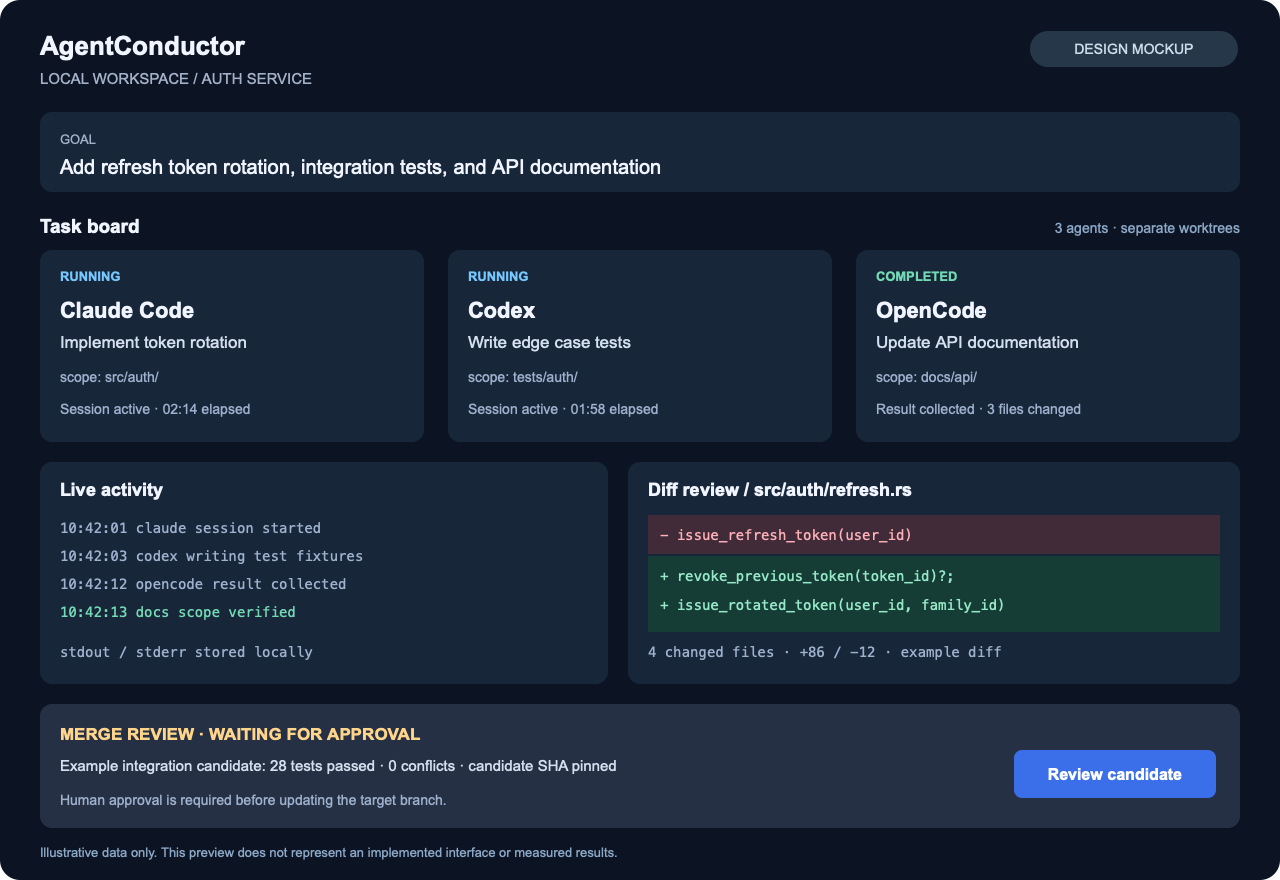
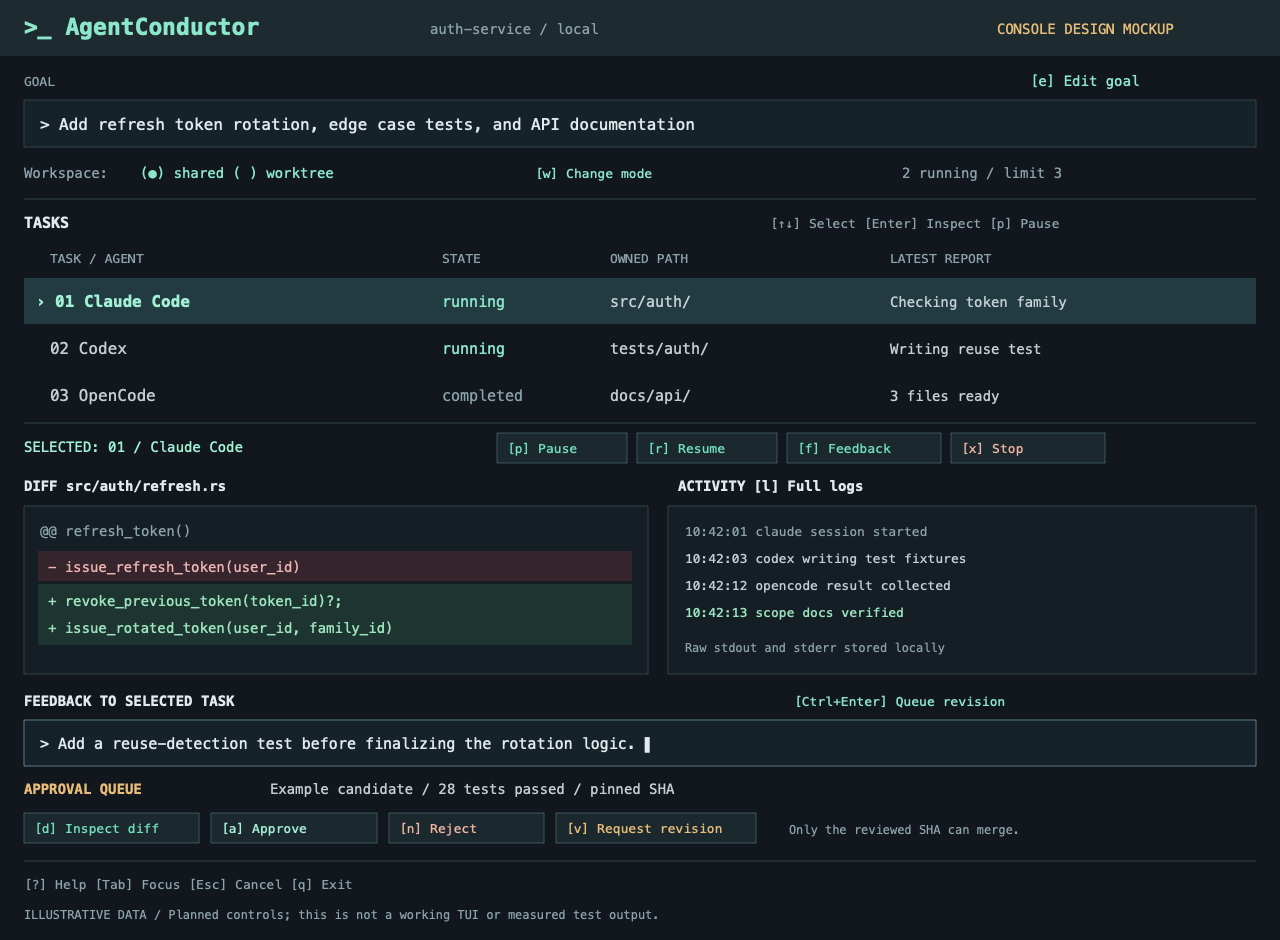
docs: redesign console preview around human intervention

diff --git a/knowledge/wiki/log.md b/knowledge/wiki/log.md
@@ -61,3 +61,27 @@ Verified 15 English Markdown files, zero broken local links, valid SVG XML, 1280
 and clean Git diff whitespace. Visually inspected all preview panels. Saved requirements and
 progress to shared agentmemory mem_mv0xsakb_73793144f244. This completes the documentation
 change, not the UI or orchestration implementation.
+
+## [2026-10-09] plan | Optional worktrees and human controls
+
+User changed worktree separation to an option and requested a less web-like interface with
+visible intervention controls. Shared is the default; worktree is explicit. Shared-mode
+policy requires disjoint scopes, a clean baseline, no worker Git mutations, quiescent tests,
+and aggregate review with unverified per-worker attribution.
+
+## [2026-10-09] task | Workspace plan schema and console concept
+
+Added workspace_mode (shared/worktree), backward-compatible shared default, and unknown-mode
+rejection. Redesigned the preview as a terminal console with task selection, goal/feedback
+entry, pause/resume/revise, workspace selection, and inspect/approve/reject controls.
+
+## [2026-10-09] verify | Workspace schema
+
+Red: two new tests failed while eight existing tests passed. Green: 14 tests passed overall;
+clippy passed. Actual workspace execution/scheduling and UI controls remain unimplemented.
+
+## [2026-10-09] complete | Workspace option and revised preview
+
+Plan schema, English documentation, and revised console illustration verified. All local
+links resolve; SVG parses; PNG is 1280×940 and all interaction controls are visible.
+Shared/worktree execution and interactive controls still require later implementation.

diff --git a/README.md b/README.md
@@ -6,7 +6,7 @@ Claude Code, Codex, OpenCode, and custom command-line agents.
 Use your existing CLI authentication. AgentConductor does not require a separate
 LLM API key or an OpenAI-compatible endpoint configuration.
 
-- Assign scoped tasks to agents in separate Git worktrees.
+- Assign scoped tasks in a shared workspace or optional Git worktrees.
 - Collect structured output, logs, code changes, and test evidence locally.
 - Review an integration candidate before approving its merge.
 - Connect custom CLI agents through the same process I/O contract.
@@ -17,6 +17,7 @@ LLM API key or an OpenAI-compatible endpoint configuration.
 
 The illustration below is a **design mockup**, not a screenshot of a working UI.
 All task names, statuses, logs, and test results are illustrative.
+The console concept includes task feedback, pause/resume, and explicit approval controls.
 
 ![AgentConductor interface concept showing three agent tasks, logs, a diff, and merge review](docs/assets/ui-preview.png)
 
@@ -26,5 +27,5 @@ The distribution target is a single native `agentconductor` executable, with
 SQLite included. Git and the selected agent CLIs must be installed and authenticated
 on the host. Optional memory and indexing integrations are separate services.
 
-Git worktrees separate code changes; execution permissions depend on the selected
-CLI and sandbox configuration.
+Choose a shared workspace or enable Git worktrees for separate code changes.
+Execution permissions depend on the selected CLI and sandbox configuration.
